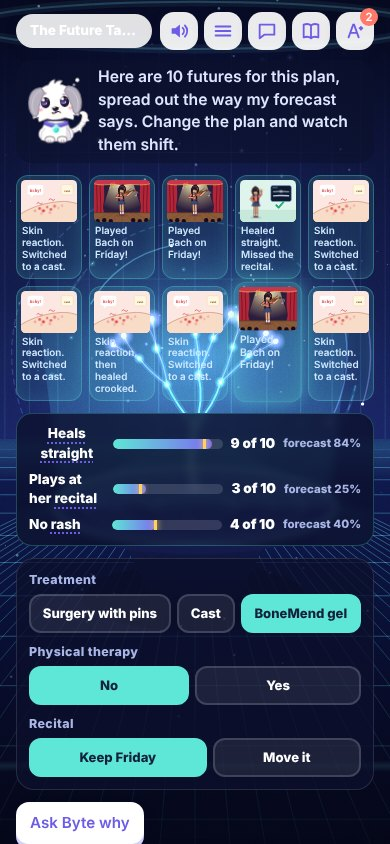
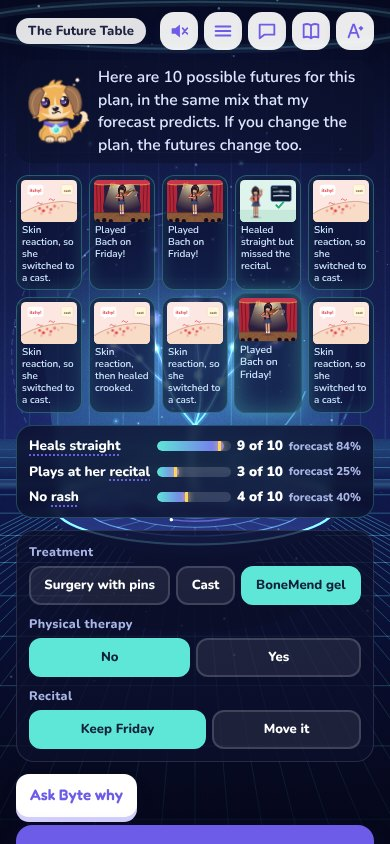
README: describe all 16 workdays, the Chinese version and the workflows; new screenshots from 12 screens
Claude-Session: https://claude.ai/code/session_015aS84CcYQUiAm7jCAY7eHA

diff --git a/README.md b/README.md
@@ -1,72 +1,81 @@
 # Pathmakers 2040
 
-A phone-first career game for kids, set in a hopeful 2040 where superintelligent AI quietly runs hospitals, cities and companies, and people still decide what matters. The player works real jobs alongside Byte, a robot-puppy AI partner: reading Byte's animated briefings, finding out what the people involved care about, testing plans on the Future Table, explaining choices honestly, and signing decisions they are accountable for.
+Pathmakers 2040 is a phone-first career game for kids who are strong readers. It is set in a hopeful 2040 where nations have agreed to keep AI at expert level until it is proven safe, AI does most of the day-to-day work, and people still make the important decisions and answer for them. The player goes to a different job each day with Byte, a robot-puppy AI partner. On each job the player reads Byte's animated briefings, asks the people involved what they know and what they care about, tests plans on the Future Table, explains the plan to the people it affects, and signs the decision.
 
 ## Play
 
-- **On the web:** https://ml-chen.github.io/pathmakers-2040/ (rebuilt from `main` on every push; it goes live once the repo is public and GitHub Pages is set to the `gh-pages` branch under Settings → Pages).
-- **On Android:** open [Releases → Android (latest)](../../releases/tag/android-latest) on the phone and tap `Pathmakers2040.apk`. Newer builds install over older ones and keep progress. See [docs/ANDROID.md](docs/ANDROID.md).
-- **Offline:** download `index.html` from the [`gh-pages` branch](../../tree/gh-pages) and open it in any browser. The whole game, including voices and music, is one self-contained file.
+- **In a phone browser:** https://ml-chen.github.io/pathmakers-2040/ (rebuilt from `main` on every push).
+- **On Android:** open [Releases → Android (latest)](../../releases/tag/android-latest) on the phone and tap `Pathmakers2040.apk`. On Wi-Fi, the app downloads the newest version of the game from GitHub Pages and uses it the next time it starts. Installing a newer APK over an older one keeps progress. See [docs/ANDROID.md](docs/ANDROID.md).
+- **Offline:** download `index.html` from the [`gh-pages` branch](../../tree/gh-pages) and open it in any browser. The whole game, including voices and music, is in that one file.
 
-Best on a phone or in a narrow browser window. Progress saves automatically, and the Menu gives a save code you can copy to another device. Menu → **Unlock every workday** opens every day for testing. Settings: Kid, Teen or Grown-up challenge, and English or 中文 (Chinese is partly translated).
+The game is made for a phone and also works in a desktop browser window. Progress saves automatically, and the Menu gives a save code you can use to move progress to another device. The Menu also has a button that unlocks every workday for testing. In Settings you can pick the challenge level (Kid, Teen or Grown-up) and the language. The Chinese version (中文) is fully translated and can show pinyin above every character.
 
-## What's in the game so far
+## Workdays
 
-A world map with a calendar (spring 2040 to winter 2042), ranks, Hearts, Coins and three kinds of stars (asking well, deciding well, caring). Each workday follows the rhythm of its real job.
+The world map runs on a calendar from spring 2040 to winter 2042. Each workday follows how its real job works. The player earns ranks, Hearts, Coins and three kinds of stars, for asking good questions, deciding well and caring about people.
 
 | Place | Day | What you do |
 |---|---|---|
-| Boston | Getting Hired | Explore the Care Doctor job, meet the team, do a practice case, interview with Dr. Reyes |
-| Boston | The Violinist's Wrist | An 11-year-old violinist's broken wrist, nine days before her recital |
-| Boston | The Helper That Said Yes | A home-care AI trained on star ratings, and who gets to decide what it may do |
-| Boston | Dancing at 104 | Elder Companion: a family meeting and the rules for a 104-year-old's home robot |
-| Boston | Grand Rounds | Give a talk about your case to the hospital, and answer a hard question |
-| Boston | The Sneeze Recipe | The first villain plot: connect split-up DNA orders before anything is printed |
-| Varrow (made-up) | The Lantern Garden | A memorial to the Quiet Year of 2030: stories, exponential growth, and layered safeguards |
-| Nome, Alaska | The Calf Who Stopped Eating | Wildlife vet: watch a calf for clues her translator collar can't hear |
-| Phoenix, Arizona | The Flood Lot | Community architect: design a skate bowl that doubles as a flood basin |
-| Washington, DC | The Robot Safety Bill | Congressional aide: draft a bill, count the votes, and testify |
-| Vienna, Austria | The Helpful Shopping AI | AI auditor: test whether a shopping AI quietly steers families |
+| Boston | Getting Hired | Learn what a care doctor does, meet the team, try a practice case, and interview with Dr. Reyes |
+| Boston | The Violinist’s Wrist | Choose a treatment for an 11-year-old violinist who broke her wrist nine days before her recital |
+| Boston | The Helper That Said Yes | Find out why a home-care AI trained on star ratings kept agreeing to risky things, and decide who sets its rules |
+| Boston | Dancing at 104 | As an elder companion, run a family meeting about what a 104-year-old's home robot may do |
+| Boston | Grand Rounds | Give a talk about your case to the whole hospital and answer a hard question |
+| Boston | The Sneeze Recipe | Connect DNA orders that were split up so no one would notice, before anything gets printed |
+| Varrow (made-up) | The Lantern Garden | Visit a memorial to the Quiet Year of 2030 and learn about fast-spreading outbreaks and layers of safeguards |
+| Nome, Alaska | The Calf Who Stopped Eating | As a wildlife vet, watch a baby woolly mammoth for clues her translator collar can't hear |
+| Phoenix, Arizona | The Flood Lot | As a community architect, design a skate bowl that doubles as a flood basin |
+| Shenzhen | Who Can Stop a Crew? | Visit the factory that built your robot crew, test every way to stop a crew, and write the rules for who may stop and restart one |
+| Shanghai | The Sister Hospital | Talk through a sick child's case with doctors in Shanghai, because each hospital knows something about her illness that the other doesn't |
+| The Moon | The Shop at the Rim | Open your first shop at the Moon base and decide what it sells and what its robot clerk may do on its own |
+| Mars | One Night of Power | A dust storm will block the Sun all night, so decide what the outpost's battery keeps running |
+| Washington, DC | The Robot Safety Bill | As a congressional aide, draft a bill, count the votes and testify |
+| Vienna, Austria | The Helpful Shopping AI | As an AI auditor, test whether a shopping AI quietly steers families toward a store owned by the same company that owns the AI |
+| Beijing | Trust, Then Check | Join the American and Chinese teams as they read each other's AI rules line by line |
 
-Also: the Ledger news app (spot the tricks in real and fake stories), Byte's closet, the Field Guide, the Word Book, live chat with Byte, and a progress page for grown-ups. The full plan (16 careers, 8 villain plots, 4 ruins and a finale vote, about 20 to 25 hours) is in [docs/CAMPAIGN.md](docs/CAMPAIGN.md).
+The game also has the Ledger news app, where you find the tricks in real and fake stories. It also has Byte's closet, the Field Guide, the Word Book, live chat with Byte, and a progress page for parents (Menu → For grown-ups). The full plan for the campaign is in [docs/CAMPAIGN.md](docs/CAMPAIGN.md).
 
 ## Screenshots
 
 | | | | |
 |---|---|---|---|
-| ![Title screen with Byte the puppy](docs/screenshots/title.jpg) | ![Walking to work down Commonwealth Avenue](docs/screenshots/street.jpg) | ![Talking with Maya, the patient](docs/screenshots/maya.jpg) | ![Byte's memo on the Workbench, one animated picture per sentence](docs/screenshots/workbench.jpg) |
-| Title | The walk to work | Meeting the patient | Byte's memo |
-| ![The Future Table showing 10 typical futures for a plan](docs/screenshots/future-table.jpg) | ![Explaining the plan to Maya and her dad](docs/screenshots/consent.jpg) | ![The real outcome, 30 days later](docs/screenshots/reveal.jpg) | ![Evening at home with a mystery](docs/screenshots/evening.jpg) |
-| The Future Table | Getting consent | What really happened | Evening cliffhanger |
+| ![Title screen with Byte the puppy](docs/screenshots/title.jpg) | ![Maya, an 11-year-old violinist with a broken wrist](docs/screenshots/maya.jpg) | ![A fact sheet on the Workbench, with one picture per sentence](docs/screenshots/workbench.jpg) | ![The Future Table showing 10 possible futures for a plan](docs/screenshots/future-table.jpg) |
+| Title | Meeting the patient | Reading on the Workbench | The Future Table |
+| ![Explaining the plan to Maya and her dad](docs/screenshots/consent.jpg) | ![The world map with every workday](docs/screenshots/world-map.jpg) | ![Maya speaking in Chinese, with pinyin above the characters](docs/screenshots/chinese.jpg) | ![Emine Kaya at her stall in the Naschmarkt](docs/screenshots/vienna.jpg) |
+| Getting consent | The world map | Chinese, with pinyin | Vienna |
+| ![Aqpik the baby woolly mammoth and her translator collar](docs/screenshots/nome.jpg) | ![Lin Xiaomei at the robot factory](docs/screenshots/shenzhen.jpg) | ![Ada at the Market Dome on the Moon](docs/screenshots/moon.jpg) | ![Choosing what the battery keeps running during the dust storm](docs/screenshots/mars.jpg) |
+| Nome, Alaska | Shenzhen | The Moon | Mars |
 
-## What's in a day
+## A workday, step by step
 
-1. **Morning and the walk to work:** tap things in each painted scene, pet Byte, and listen to passers-by. Some details are clues.
-2. **Meet the people:** face-to-face conversations with recorded voices. Listening closely turns up information that no record has.
-3. **Workbench:** graded-reader documents at about a 7th-grade level, where every sentence has its own animated picture and every hard word has a tap definition (saved to the Word Book).
-4. **Set the bar:** choose what a good decision means before looking at options.
-5. **Future Table:** change the plan and watch 10 typical futures shift, built from Byte's forecast so the futures match the odds.
-6. **Consent, then the written decision:** explain the plan honestly, write 2 or 3 sentences, and sign. Byte reviews the writing like a kind editor.
-7. **What really happened and the debrief:** the real outcome is rolled from the true odds, and the debrief scores the decision separately from luck and checks how well-calibrated the player's confidence was.
+1. **Morning and the walk to work:** tap things in each painted scene, pet Byte, and listen to people passing by. Some of what you see and hear turns out to be a clue.
+2. **Meet the people:** talk face to face, with recorded voices. Careful listening turns up facts that no record has.
+3. **Workbench:** read Byte's documents, written at about a 7th-grade level. Every sentence has its own animated picture, and every hard word has a definition you can tap, which is saved to the Word Book.
+4. **Set your standard:** choose what a good decision has to do before you look at the options.
+5. **Future Table:** change the plan and watch 10 possible futures change. They are built from Byte's forecast, so they match its odds.
+6. **Consent, then the written decision:** explain the plan honestly to the people it affects, write 2 or 3 sentences, and sign. Byte gives feedback on the writing.
+7. **What really happened, and the debrief:** the real outcome is rolled from the true odds. The debrief scores how good your decision was separately from how lucky the outcome was, and checks whether your confidence matched how things turned out.
 
 ## Build and test
 
 ```sh
-python3 src/build.py dist/pathmakers.html                 # inline every module into one page
-node tests/flow_test.js dist/pathmakers.html              # play every mission headlessly and report errors
-node tests/resume_test.js dist/pathmakers.html            # autosave resumes where the player left off
-node tools/mission_shots.js dist/pathmakers.html OUT [id] # phone-size screenshots of every step, with contact sheets
-node tools/playthrough_video.js dist/pathmakers.html OUT  # a canonical playthrough video
+python3 src/build.py dist/pathmakers.html                          # put every module into one page
+node tests/flow_test.js dist/pathmakers.html                       # play every mission headlessly and report errors
+node tests/resume_test.js dist/pathmakers.html                     # check that autosave resumes where the player left off
+node tools/deep_all.js dist/pathmakers.html OUT                    # screenshot every screen and list layout problems in OUT/issues.txt
+VIZ_AUDIT_WARN=1 node tools/viz_audit.js dist/pathmakers.html OUT  # check every infographic for overlapping and cut-off labels
 ```
 
-Every push to `main` runs these on GitHub and publishes:
-- **Android (latest):** the APK.
-- **Playtest (latest):** a playthrough video and one contact sheet per mission.
-- **Record voices:** speaks every new line (ElevenLabs if the `ELEVENLABS_API_KEY` secret is set, otherwise Kokoro) and commits the clips.
-- **Promo (latest):** the Mandarin concept video for RedNote (`promo/rednote`).
+GitHub runs these workflows:
+- **Pages**, on every push to `main`, publishes the game to GitHub Pages.
+- **Android**, on every push, builds the APK and publishes it as **Android (latest)**.
+- **Playtest**, on every push, plays every mission on a phone-sized screen, a wide screen and in Chinese, and publishes the problem lists, contact sheets and a playthrough video as **Playtest (latest)**.
+- **Pinyin**, when Chinese text changes, makes its pinyin.
+- **Promo**, when its files change, renders the Mandarin video for RedNote (`promo/rednote`) and publishes it as **Promo (latest)**.
+- **Record voices**, run by hand, records every new spoken line.
 
-`CLAUDE.md` has the module map and the rules the game follows, and `docs/WORKBOARD.md` tracks what's being built and the to-do list. New missions, painted scenes and infographics go in their own files under `src/missions/`, `src/scenes/` and `src/viz/`, and the build picks them up automatically.
+`CLAUDE.md` has the module map and the rules the game follows. `docs/MISSIONS.md` explains how to add missions, scenes and infographics, and `docs/WORKBOARD.md` tracks what is being built. New missions, painted scenes and infographics go in their own files under `src/missions/`, `src/scenes/` and `src/viz/`, and the build picks them up automatically.
 
 ## Credits
 
-Voices are recorded with Kokoro (Apache-2.0) through sherpa-onnx, or with ElevenLabs when a key is set. The game was built with Claude, mostly overnight. The world is inspired by the AI Futures Project's scenario "AI 2040"; the game is not affiliated with it. Every person in the game is fictional, and every disaster and villain hideout is in a made-up place.
+The game was built with Claude. The voices are recorded with ElevenLabs when an ElevenLabs key is set, and otherwise with Kokoro (Apache-2.0) through sherpa-onnx. The world is based on the AI Futures Project's scenario "AI 2040: Plan A", and the game is not affiliated with the AI Futures Project. Every person in the game is fictional, and every disaster and villain hideout is in a made-up place.
